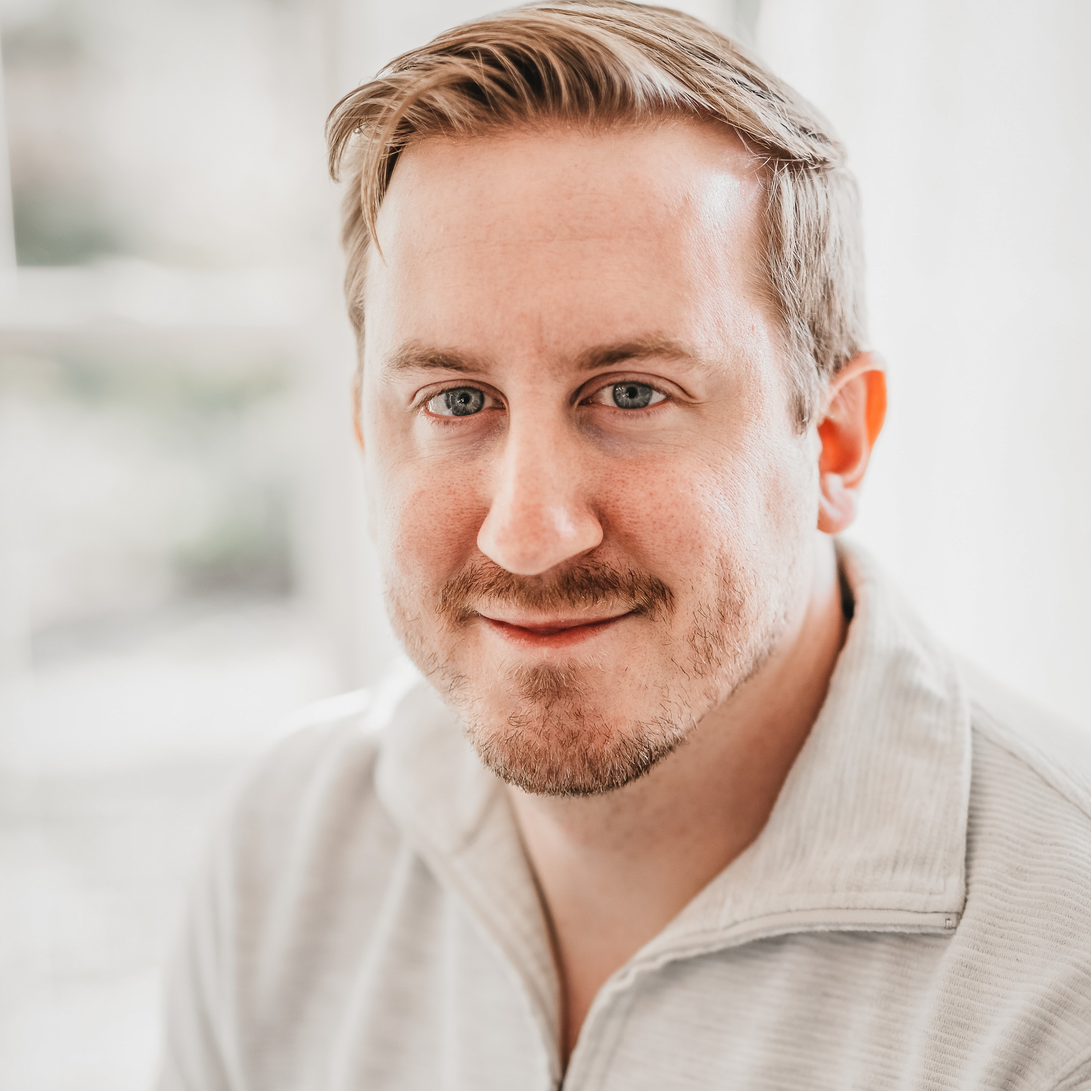
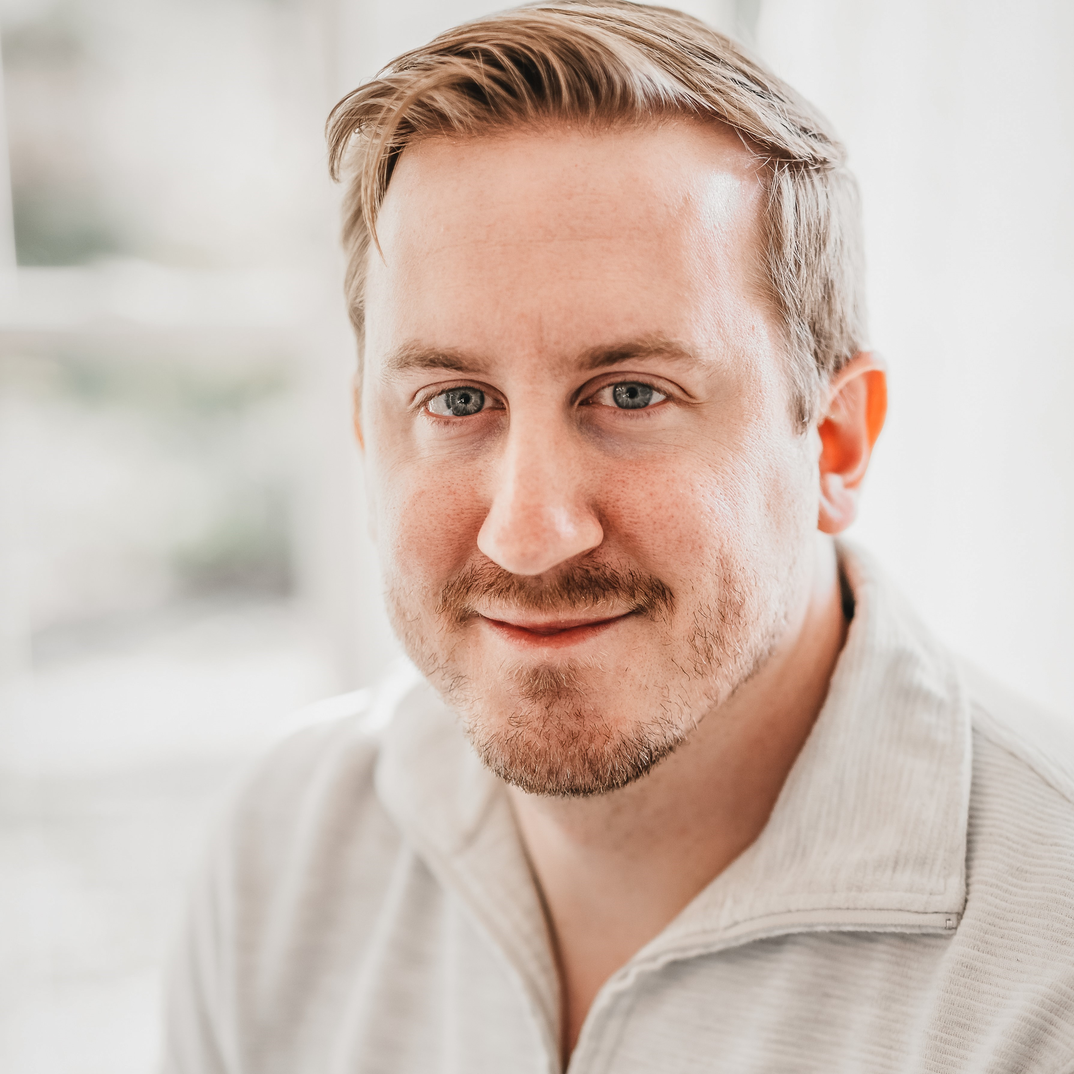
Completed prototype bio box

diff --git a/src/main/resources/static/about-page.html b/src/main/resources/static/about-page.html
@@ -33,14 +33,19 @@
 
     <main class="main-content">
       <div>
-        <p class="page-title">This is where the about us stuff goes</p>
+        <p class="page-title">The Development Team</p>
       </div>
       <section class="about-profile-boxes">
 
+        <hr> <!-- Dustin Bayham -->
+
+
+
+        
         <div class="about-profile-box">
           <div class="about-text-and-links">
             <div class="about-headshot">
-              <img src="..\images\DBayhamHeadshot.jpg" width=200px height=auto>Dustin Bayham</a>
+              <img src=".\images\dustin-headshot.jpg" width=200px height=auto>Dustin Bayham</a>
             </div>
             <p class="about-profile-text">Master of Science level of education with 10+ years of professional experience
               working within the industry of healthcare
@@ -53,6 +58,9 @@
             <a href="https://dbayham.github.io/">Git Portfolio</a>
           </div>
         </div>
+
+        <hr> <!-- Grant Cushman -->
+
 
         <div class="about-profile-box">
           <p>Grant Cushman</p>
@@ -70,6 +78,8 @@
 
         </div>
 
+        <hr> <!-- John Haight -->
+
         <div class="about-profile-box">
           <div class="about-headshot">
             <img src=".\images\john-headshot.jpg" width=200px>John Haight</a>
@@ -84,12 +94,18 @@
           <a href="https://jhaight-dev.github.io/">GitHub Portfolio</a>
         </div>
 
+        <hr> <!-- Josh Hardwick -->
+
+
         <div class="about-profile-box">
           <p>Josh Hardwick</p>
         </div>
 
+        <hr> <!-- Tyren Thompson -->
+
+
         <div class="about-profile-box">
-          <img class="about-headshot" src=".\images\tyren-headshot.jpg" width=200px>Adam Youngpeter</a>
+          <img class="about-headshot" src=".\images\tyren-headshot.jpg" width=200px>Tyren Thompson</a>
 
           <p class="TyrenThompson">Experience Help Desk Advocate with a strong work ethic and enjoys learning tech and
             dev.
@@ -100,18 +116,23 @@
           <a href="https://professor504.github.io/">Git Portfolio</a>
         </div>
 
-        <hr>
 
+
+
+
+        <hr> <!-- Adam Youngpeter -->
         <div class="about-profile-box">
           <div class="about-headshot-box">
-
             <div class="about-headshot">
+
               <img src=".\images\adam-headshot.jpg" width="200px" height="200px">
+
             </div>
+
             <p class="about-headshot-text">Adam Youngpeter</p>
+
           </div>
           <div class="about-text-and-links">
-
             <div class="about-profile-text">
 
               <p>MBA, small business owner, and previous software engineer who is excited to
@@ -120,23 +141,48 @@
                 that have the end user in mind. <br><br>
                 I enjoy learning new technologies, languages, and frameworks and look forward to continuing to grow
                 throughout my career.
+
               </p>
             </div>
             <div class="about-links-box">
-              <div>
-                <a href="https://www.linkedin.com/in/adamyoungpeter/"><img src='./images/LI-In-Bug.png' width='30'
-                    alt='linkedIn Logo' /></a><br>LinkedIn Profile
-              </div>
-              <div><a href="https://github.com/adamyoungpeter"><img src='./images/github-repository.png' width='30'
-                  alt='GitHub Logo' /></a><br>GitHub Repository
+              <div class="about-links-logos">
+                <div>
+
+                  <a href="https://www.linkedin.com/in/adamyoungpeter/"><img src='./images/LI-In-Bug.png' width='30' alt='linkedIn Logo' /></a>
+
                 </div>
-              <div><a href="https://adamyoungpeter.github.io/"><img src='./images/GitHub_Logo.png' width='60'
-                    alt='GitHub Logo' /></a><br>GitHub Portfolio
-                  </div>
+                <div>
+
+                  <p>LinkedIn Profile</p>
+
+                </div>
+              </div>
+              <div class="about-links-logos">
+                <div>
+
+                  <a href="https://github.com/adamyoungpeter"><img src='./images/github-repository.png' width='30' alt='GitHub Logo' /></a>
+
+                </div>
+                <div>
+                  <p>GitHub Repository</p>
+                </div>
+              </div>
+              <div class="about-links-logos">
+                <div>
+
+                  <a href="https://adamyoungpeter.github.io/"><img src='./images/GitHub_Logo.png' width='60' alt='GitHub Logo' /></a>
+
+                    </div>
+                <div>
+                  <p>GitHub Portfolio</p>
+                </div>
+              </div>
 
             </div>
           </div>
       </section>
+
+
 
     </main>
 

diff --git a/src/main/resources/static/css/style.css b/src/main/resources/static/css/style.css
@@ -214,30 +214,31 @@ footer {
 .about-profile-box {
   display: flex;
   flex-direction: row;
-  background-color: blueviolet;
+  /* background-color: blueviolet; */
   border: 1px solid black;
   border-radius: 6px;
   margin:5px;
 }
 
 .about-headshot-box {
+  /* background-color: blue; */
+  align-items: center;
+  border-radius: 4px;
+  /* border: 1px solid black; */
+  /* box-shadow: 5px 5px 1px rgba(0, 0, 0, 0.2); */
   display: flex;
   flex-direction: column;
-  border: 1px solid black;
-  border-radius: 4px;
-  margin: 10px;
-  align-items: center;
-  font-weight: bold;
-  box-shadow: 5px 5px 1px rgba(0, 0, 0, 0.2);
   font-size: 1em;
-  background-color: blue;
+  font-weight: bold;
+  margin: 10px;
+  max-height: 255px;
 }
 
 .about-headshot {
-  box-shadow: 5px 5px rgba(0, 0, 0, 0.2);
-  margin: 10px;
-  margin-bottom: 5px;
   align-items: center;
+  box-shadow: 5px 5px rgba(0, 0, 0, 0.2);
+  margin-bottom: 5px;
+  margin: 10px;
 }
 
 .about-headshot-text {
@@ -247,40 +248,59 @@ footer {
 }
 
 .about-text-and-links {
+  /* justify-content: space-between; */
+  /* justify-content: space-evenly; */
+  /* background-color: chartreuse; */
   display: flex;
   flex-direction: column;
-  background-color: chartreuse;
+  justify-content: space-around;
 }
 
 .about-profile-text {
   align-items: center; /* align vertical */
-  background-color: crimson;
+  /* background-color: crimson; */
+  border-radius: 4px;
+  border: 1px solid black;
+  box-shadow: 5px 5px 1px rgba(0, 0, 0, 0.2);
   display: flex;
   font-size: 1em;
   font-weight: normal;
   justify-content: center; /* align horizontal */
-  padding: 10px;
-  border: 1px solid black;
-  box-shadow: 5px 5px 1px rgba(0, 0, 0, 0.2);
-  border-radius: 4px;
   margin: 10px;
+  padding: 10px;
+}
+
+.about-profile-text p {
+  margin: 0px;
 }
 
 .about-links-box {
-  border: 1px solid black;
-
+  /* background-color: aqua; */
+  /* border: 1px solid black; */
+  /* justify-content: space-around; */
+  /* justify-content: space-between; */
   align-items: center;
-  background-color: aqua;
   border-radius: 4px;
   display: flex;
   flex-direction: row;
-  font-weight: normal;
-  justify-content: space-evenly;
-  /* margin: 10px; */
-  min-width: 150px;
-  /* padding: 10px; */
   font-size: 0.5em;
   font-weight: normal;
+  justify-content: space-evenly;
+  min-width: 150px;
+}
+
+.about-links-logos {
+  align-items: center;
+  display: flex;
+  filter: drop-shadow(2px 2px 1px rgba(0,0,0,0.5));
+  flex-direction: column;
+  justify-content:space-around;
+  margin: 0px;
+  padding: 0px;
+}
+
+.about-links-logos p {
+  margin: 0px;
 }
 
 .about-links-box a {
